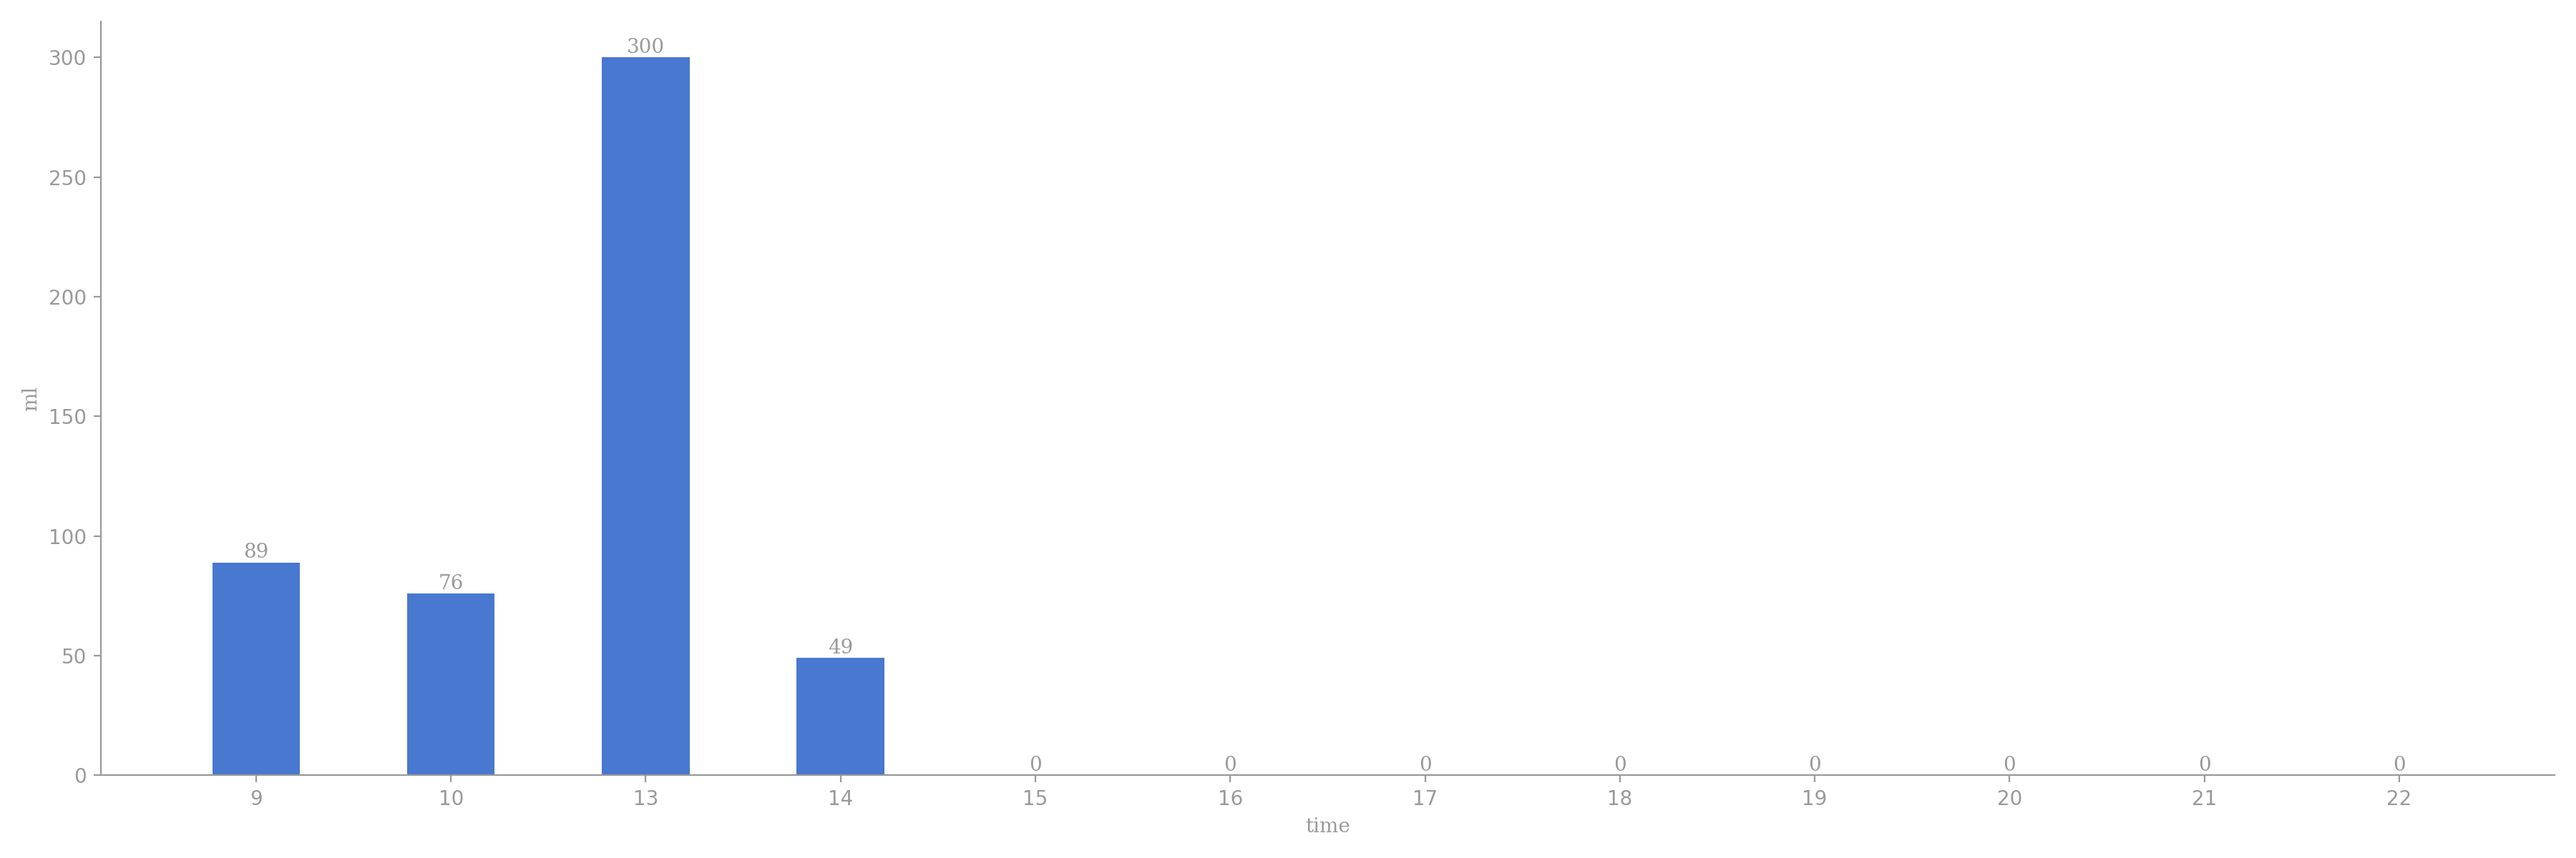
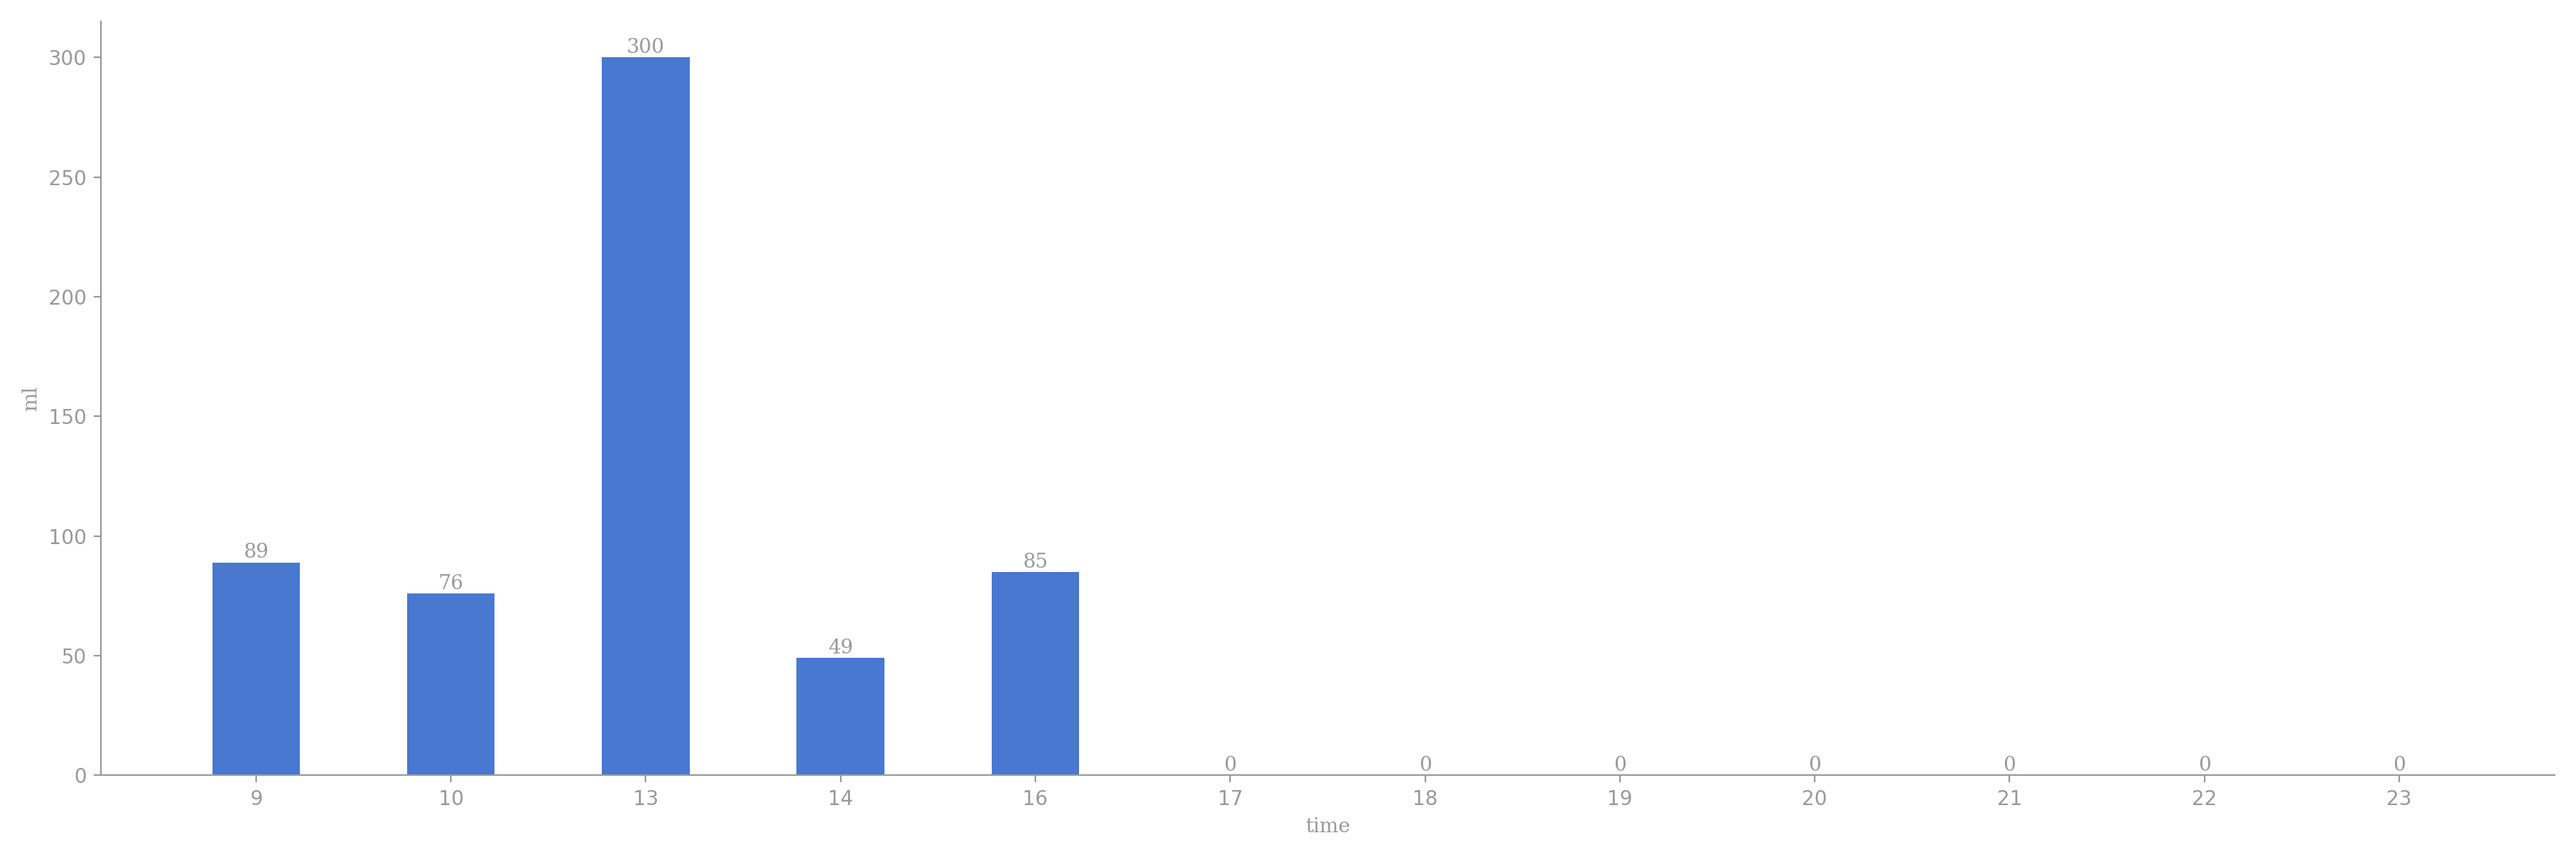
generated readme

Changed region(s): [[0.3733, 0.6475, 0.4356, 0.925]]

diff --git a/README.md b/README.md
@@ -5,12 +5,12 @@
 
 | 今日总饮水量 | 每小时平均饮水量 |
 | :----: | :----: |
-| 514 | 128 |
+| 599 | 119 |
 </div>
 
-| 日期 | 09:00:48 | 10:55:19 | 13:24:01 | 14:36:36 |
-| :----: | :----: | :----: | :----: | :----: |
-| 2024-05-26 | 89 | 76 | 300 | 49 |
+| 日期 | 09:00:48 | 10:55:19 | 13:24:01 | 14:36:36 | 16:18:57 |
+| :----: | :----: | :----: | :----: | :----: | :----: |
+| 2024-05-26 | 89 | 76 | 300 | 49 | 85 |
 
 # 近30日饮水数据
 
